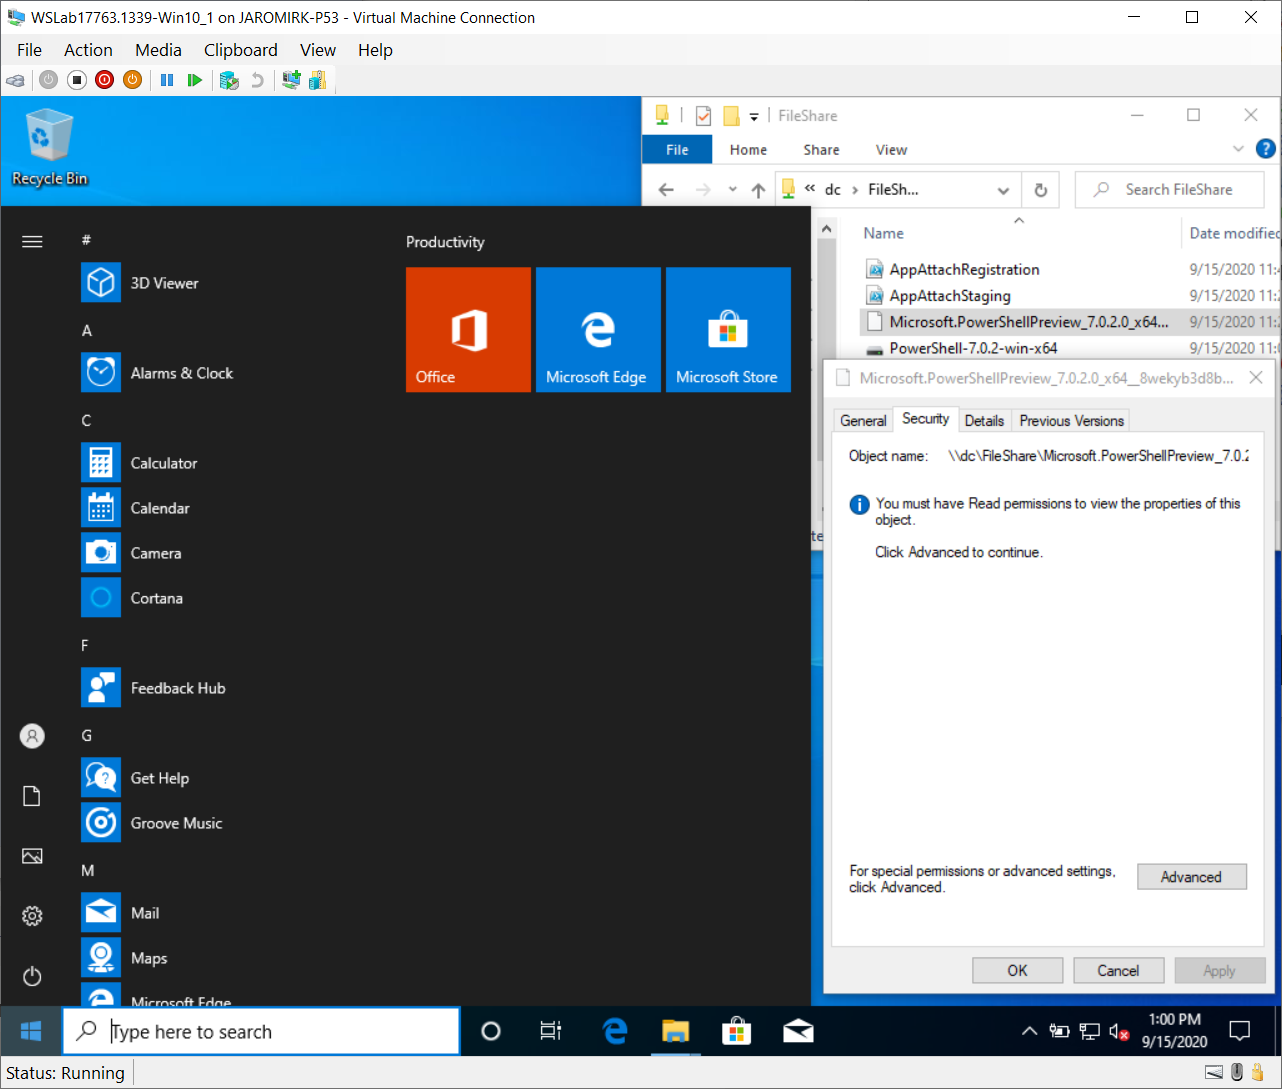
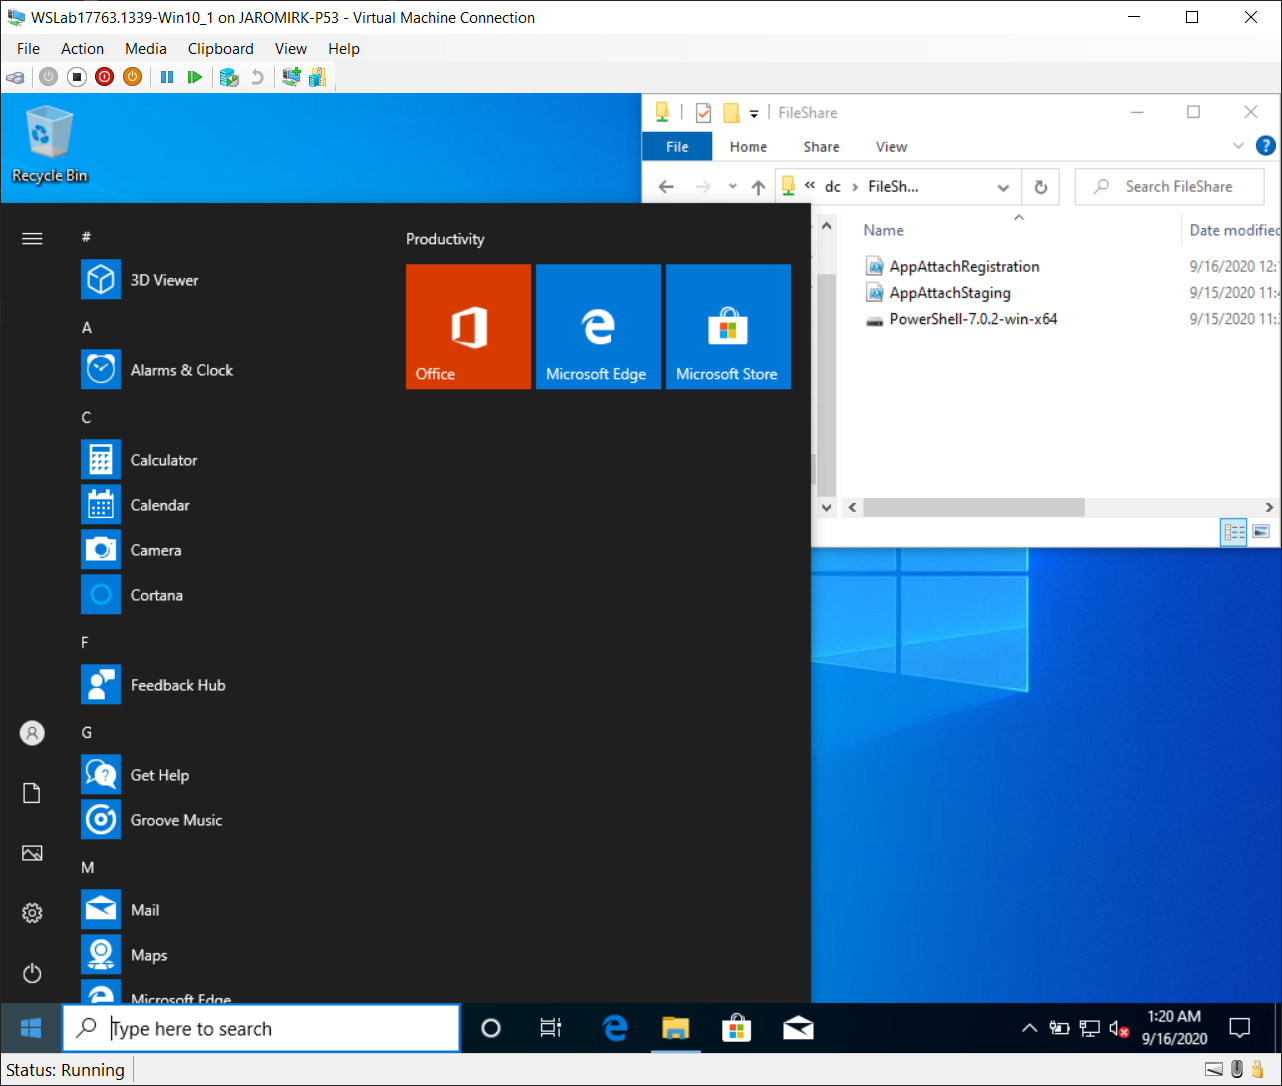
screenshot fix

diff --git a/Scenarios/AppAttach/readme.md b/Scenarios/AppAttach/readme.md
@@ -322,7 +322,7 @@ Configure access based enumeration, so only users who have read access see app n
 ```powershell
 $ComputerName="DC"
 $Sharename="FileShare"
-Set-SmbShare -Name $Sharename -FolderEnumerationMode AccessBased -CimSession $ComputerName
+Set-SmbShare -Name $Sharename -FolderEnumerationMode AccessBased -Force -CimSession $ComputerName
  
 ```
 
@@ -405,6 +405,6 @@ After logon to Win10_1, Bob has PowerShell 7 available in start menu (notice Bob
 
 ![](/Scenarios/AppAttach/Screenshots/Desktop02.png)
 
-And Rob not.
+And Rob not. Notice, that app name file is not even visible thanks to Access-based Enumeration.
 
 ![](/Scenarios/AppAttach/Screenshots/Desktop03.png)
